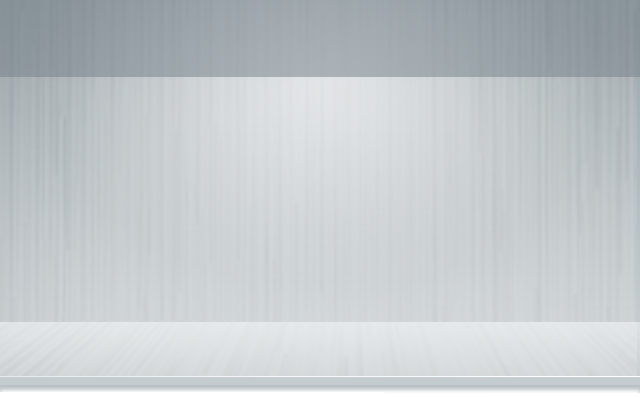
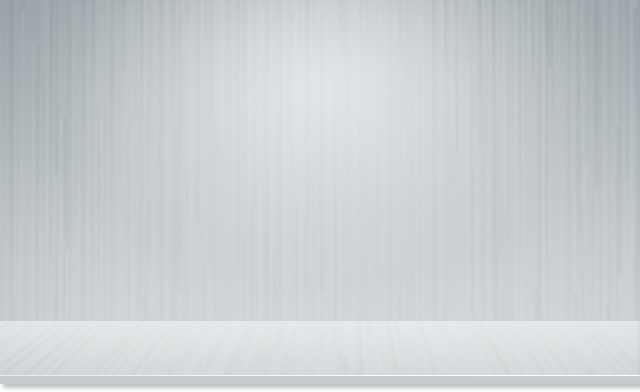
会员专区，按比例

Changed region(s): [[0.0, 0.0, 1.0, 0.2143], [0.0, 0.9796, 1.0, 1.0], [0.0, 0.7959, 0.0625, 0.8265]]

diff --git a/src/m-member/static/css/member.css b/src/m-member/static/css/member.css
@@ -9,15 +9,17 @@
 }
 #cards_area > img {
   width: 100%;
-  height: 400px;
 }
 #cards_area > #my_name {
   position: absolute;
-  top: 28px;
+  top: 0px;
   width: 100%;
   text-align: center;
   color: white;
   font-size: 20px;
+  background-color: rgba(0, 0, 0, 0.5);
+  height: 40px;
+  line-height: 40px;
 }
 #cards_area > #card_list {
   position: absolute;
@@ -31,8 +33,9 @@
 #card_list > ul > li.card {
   position: relative;
   display: inline-block;
-  width: 378px;
-  height: 244px;
+  width: 50%;
+  padding-bottom: 33%;
+  height: 0;
   background-size: cover !important;
   vertical-align: top;
   color: white;

diff --git a/src/m-member/static/css/member.less b/src/m-member/static/css/member.less
@@ -13,16 +13,18 @@
 
 #cards_area > img{
   width: 100%;
-  height: 400px;
 }
 
 #cards_area > #my_name {
   position: absolute;
-  top: 28px;
+  top: 0px;
   width: 100%;
   text-align: center;
   color: white;
   font-size: 20px;
+  background-color: rgba(0, 0, 0, 0.5);
+  height: 40px;
+  line-height: 40px;
 }
 
 #cards_area > #card_list {
@@ -38,8 +40,9 @@
 #card_list > ul > li.card {
   position: relative;
   display: inline-block;
-  width: 378px;
-  height: 244px;
+  width: 50%;
+  padding-bottom: 33%;
+  height: 0;
   background-size: cover !important;
   vertical-align: top;
   color: white;
